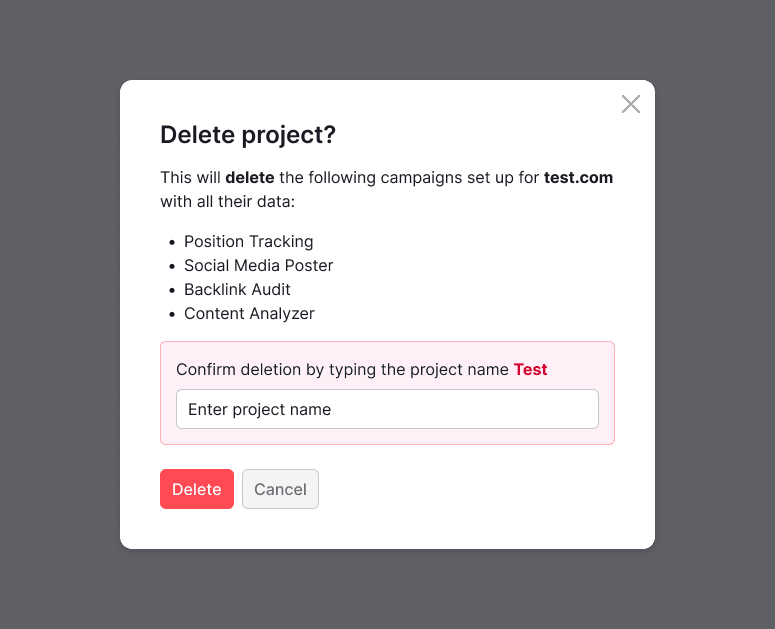
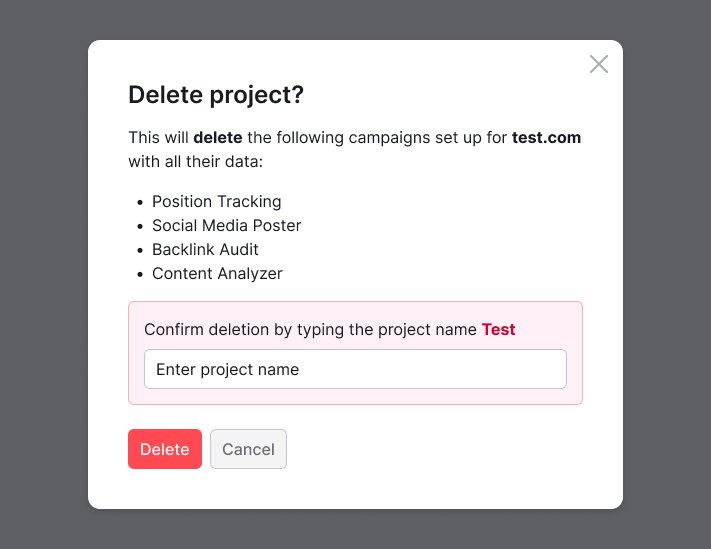
[website] update Confirm modal guide

Changed region(s): [[0.1238, 0.0619, 0.8973, 0.929]]

diff --git a/website/docs/patterns/confirm-dialog/confirm-dialog.md b/website/docs/patterns/confirm-dialog/confirm-dialog.md
@@ -1,20 +1,18 @@
 ---
-title: Confirmation modal dialog
+title: Confirmation modal window
 fileSource: modal
 tabName: Design
 ---
 
 @## Description
 
-A **confirmation modal dialog** asks the user if they're sure that they want to proceed with the command that they've just issued to the system. It informs the user about potential problems or data loss and gives them a chance to reconsider the decision.
+**Confirmation modal window** asks the user if they're sure that they want to proceed with the command that they've just issued to the system. It informs the user about potential problems or data loss and gives them a chance to reconsider the decision.
 
 The dialog must have a clear descriptive message that explains what is happening. The user should be able to understand the message and have controls to act.
 
 The dialog is built using the [Modal](/components/modal/) component.
 
-@## Component appearing
-
-> Description of the component for modal windows can be found in the [Modal](/components/modal/). For cancel actions see [NoticeBubble](/components/notice-bubble/).
+@## When to use
 
 When the user is about to take an irreversible action, like permanently deleting an item, or when they're about to lose unsaved data, you need to ask them in advance if they understand what’s going to happen.
 
@@ -27,13 +25,9 @@ When the user is about to take an action that leads to serious consequences, for
 - The dialog must explain what exactly will change.
 - The user has to confirm the action by entering the requested value.
 
-![](static/confirm-dialog-large.png)
-
 Try to avoid situations when the content in a modal dialog requires a scrollbar.
 
-@## Paddings
-
-![](static/confirm-dialog-paddings.png)
+![](static/confirm-dialog-large.png)
 
 @## Other recommendations
 

diff --git a/website/docs/patterns/patterns.md b/website/docs/patterns/patterns.md
@@ -2,8 +2,8 @@
 title: UX patterns
 ---
 
-@page modal-content
 @page confirm-dialog
+@page modal-content
 @page empty-page
 @page global-errors
 @page export

diff --git a/website/docs/patterns/confirm-dialog/confirm-dialog-code.md b/website/docs/patterns/confirm-dialog/confirm-dialog-code.md
@@ -2,6 +2,6 @@
 title: Example
 ---
 
-@## ConfirmDialog example
+@## Confirm modal example
 
 @example confirm-dialog
